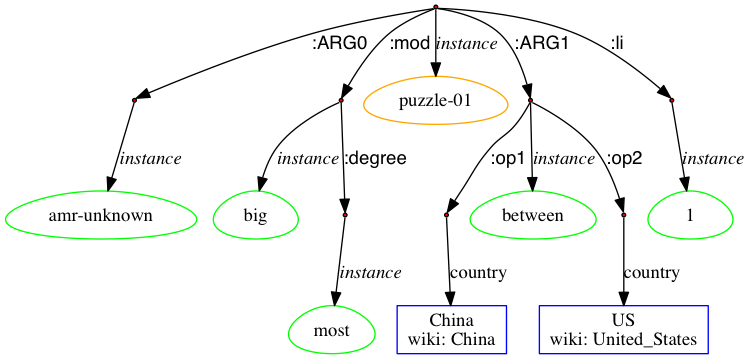
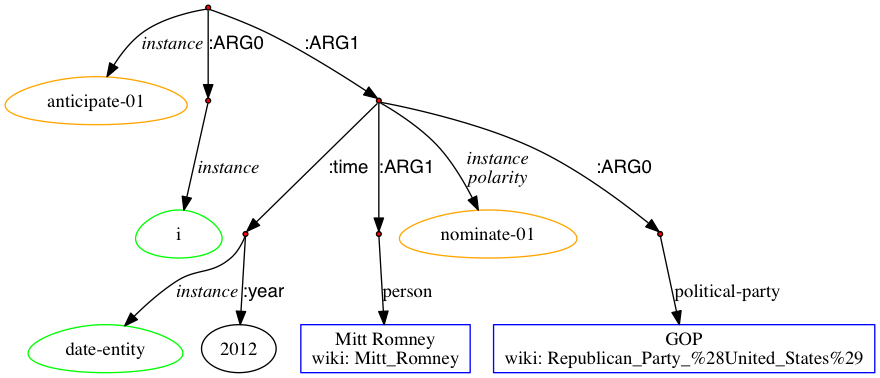
updated example

diff --git a/README.md b/README.md
@@ -1,7 +1,7 @@
 ## Quickstart
 
-      bin/amr_reader <directory of AMR files> <directory of output files> [-h] [-g GRAPH] [-n] [-p] [-e] [-q] [-v VISUALIZATION]
-      e.g., python /amr_reader/main.py amr-reader/test/test_amr_doc/ output/ -v=n
+      python amr_reader/main.py <directory of AMR files> <directory of output files> [-h] [-g GRAPH] [-n] [-p] [-e] [-q] [-v VISUALIZATION]
+      e.g., python amr_reader/main.py amr-reader/test/test_amr_doc/ output/ -v=n
 
 
 optional arguments:
@@ -25,18 +25,14 @@ optional arguments:
 - If you would like to modify the output format, you could modify amr-reader/src/output.py file.
 
 ## Example
-      First, what is the biggest puzzle between China and the US?
+      I am cautiously anticipating the GOP nominee in 2012 not to be Mitt Romney.
 
-      (p / puzzle-01
-         :ARG0 (a / amr-unknown)
-         :ARG1 (b2 / between
-               :op1 (c / country :wiki "China"
-                     :name (n / name :op1 "China"))
-               :op2 (c2 / country :wiki "United_States"
-                     :name (n2 / name :op1 "US")))
-         :mod (b / big
-               :degree (m / most))
-         :li (x / 1))
+      (a / anticipate-01
+      :ARG0 (i / i)
+      :ARG1 (n / nominate-01 :polarity -
+            :ARG0 (p2 / political-party :wiki "Republican_Party_(United_States)" :name (n3 / name :op1 "GOP"))
+            :ARG1 (p / person :name :wiki "Mitt_Romney" (n2 / name :op1 "Mitt" :op2 "Romney"))
+            :time (d / date-entity :year 2012)))
 
   Visualization:<br>
 
